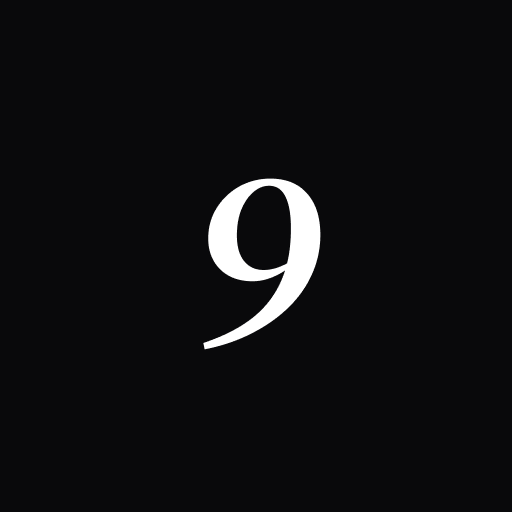
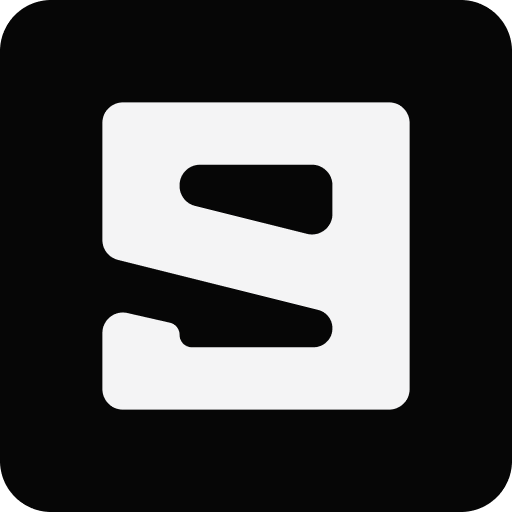
feat: branding update

diff --git a/src/components/icons.tsx b/src/components/icons.tsx
@@ -3,17 +3,15 @@ type IconProps = React.HTMLAttributes<SVGElement>
 export const Icons = {
 	logo: (props: IconProps) => (
 		<svg
-			{...props}
-			viewBox="0 0 122 175"
+			width="24"
+			height="24"
+			viewBox="0 0 120 120"
 			fill="none"
 			xmlns="http://www.w3.org/2000/svg"
+			{...props}
 		>
 			<path
-				d="M8.32 134.176L7.68 130.976C18.944 127.221 27.904 122.4 34.56 116.512C41.216 110.539 45.8667 103.285 48.512 94.752C45.952 96.4587 43.3067 97.7813 40.576 98.72C37.8453 99.6587 35.072 100.128 32.256 100.128C25.6 100.128 20.224 98.1653 16.128 94.24C12.1173 90.2293 10.112 85.0667 10.112 78.752C10.112 73.12 11.52 68.0427 14.336 63.52C17.152 58.9973 20.9067 55.4133 25.6 52.768C30.3787 50.1227 35.584 48.8 41.216 48.8C49.0667 48.8 55.168 51.2747 59.52 56.224C63.9573 61.1733 66.176 68.0853 66.176 76.96C66.176 83.872 64.768 90.4427 61.952 96.672C59.2213 102.816 55.2533 108.405 50.048 113.44C44.928 118.389 38.8267 122.656 31.744 126.24C24.7467 129.824 16.9387 132.469 8.32 134.176ZM24.448 77.216C24.448 82.7627 25.6427 87.0293 28.032 90.016C30.4213 93.0027 33.7067 94.496 37.888 94.496C41.5573 94.496 45.44 93.3867 49.536 91.168C50.816 85.9627 51.456 80.16 51.456 73.76C51.456 66.848 50.56 61.5573 48.768 57.888C46.976 54.2187 44.2453 52.384 40.576 52.384C37.76 52.384 35.1147 53.4507 32.64 55.584C30.1653 57.7173 28.16 60.6613 26.624 64.416C25.1733 68.0853 24.448 72.352 24.448 77.216Z"
-				fill="currentColor"
-			/>
-			<path
-				d="M76.704 110.896C75.296 110.896 74.08 110.491 73.056 109.68C72.032 108.827 71.52 107.525 71.52 105.776C71.52 104.795 71.6267 103.707 71.84 102.512C72.0533 101.317 72.288 100.144 72.544 98.992L75.296 86.768C75.68 85.0187 75.0613 83.824 73.44 83.184L72.352 82.736L72.48 81.584L84 78.256L84.768 78.896L80.352 98.096C80.096 99.1627 79.8827 100.123 79.712 100.976C79.5413 101.829 79.456 102.619 79.456 103.344C79.456 104.283 79.6693 104.965 80.096 105.392C80.5227 105.776 81.0773 105.968 81.76 105.968C82.784 105.968 83.8933 105.627 85.088 104.944C86.3253 104.219 87.7973 103.088 89.504 101.552L89.568 101.232L91.744 90.928C92.0853 89.1787 92.4267 87.4507 92.768 85.744C93.1093 83.9947 93.4293 82.2453 93.728 80.496L101.216 78.256L102.048 78.896L97.056 101.744C96.928 102.469 96.8 103.131 96.672 103.728C96.5867 104.325 96.544 104.816 96.544 105.2C96.544 105.627 96.672 105.968 96.928 106.224C97.184 106.437 97.4613 106.544 97.76 106.544C98.3573 106.544 98.9547 106.331 99.552 105.904C100.192 105.435 100.981 104.752 101.92 103.856L102.88 104.816C101.813 106.309 100.469 107.696 98.848 108.976C97.2693 110.256 95.456 110.896 93.408 110.896C92.1707 110.896 91.104 110.469 90.208 109.616C89.3547 108.763 88.928 107.525 88.928 105.904C88.928 105.264 88.9707 104.581 89.056 103.856C86.8373 106.075 84.6827 107.803 82.592 109.04C80.544 110.277 78.5813 110.896 76.704 110.896ZM116.695 74.544C115.5 74.544 114.476 74.16 113.623 73.392C112.769 72.624 112.343 71.5787 112.343 70.256C112.343 68.848 112.855 67.6747 113.879 66.736C114.903 65.7973 116.055 65.328 117.335 65.328C118.572 65.328 119.596 65.7333 120.407 66.544C121.217 67.312 121.623 68.3147 121.623 69.552C121.623 70.9173 121.111 72.0907 120.087 73.072C119.105 74.0533 117.975 74.544 116.695 74.544ZM110.807 110.896C109.527 110.896 108.46 110.576 107.607 109.936C106.796 109.253 106.391 108.272 106.391 106.992C106.391 106.267 106.476 105.392 106.647 104.368C106.817 103.344 107.009 102.299 107.223 101.232L110.231 86.768C110.615 84.976 109.953 83.76 108.247 83.12L107.351 82.736L107.479 81.584L118.999 78.256L119.639 78.896L114.775 101.744C114.604 102.469 114.476 103.109 114.391 103.664C114.305 104.176 114.263 104.667 114.263 105.136C114.263 106.075 114.689 106.544 115.543 106.544C116.567 106.544 117.911 105.733 119.575 104.112L120.407 104.944C119.34 106.523 117.996 107.909 116.375 109.104C114.796 110.299 112.94 110.896 110.807 110.896Z"
+				d="M8 120C3.58172 120 0 116.418 0 112V90.0813C0 84.9469 4.76798 81.1417 9.77448 82.2806L26.3605 86.0535C28.5739 86.557 30.1444 88.5249 30.1444 90.7948V90.7948C30.1444 93.4802 32.3213 95.6572 35.0067 95.6572H82.4434C86.537 95.6572 89.8556 92.3386 89.8556 88.2449V88.2449C89.8556 84.8434 87.5405 81.8785 84.2406 81.0538L6.06027 61.5146C2.49866 60.6245 0 57.4245 0 53.7533V8C0 3.58172 3.58172 0 8 0H112C116.418 0 120 3.58172 120 8V112C120 116.418 116.418 120 112 120H8ZM30.1444 32.6667C30.1444 36.3383 32.6436 39.5385 36.2057 40.4283L79.917 51.3462C84.9658 52.6072 89.8556 48.7885 89.8556 43.5846V32.3429C89.8556 27.9246 86.2739 24.3429 81.8556 24.3429H38.1444C33.7261 24.3429 30.1444 27.9246 30.1444 32.3429V32.6667Z"
 				fill="currentColor"
 			/>
 		</svg>

diff --git a/src/components/mobile-nav.tsx b/src/components/mobile-nav.tsx
@@ -30,7 +30,7 @@ export function MobileNav() {
 				<DrawerTrigger
 					render={(props) => (
 						<Button
-							className="mr-2 md:hidden"
+							className="md:hidden"
 							variant="ghost"
 							size="icon"
 							{...props}
@@ -72,7 +72,7 @@ export function MobileNav() {
 				</DrawerPortal>
 			</Drawer>
 			<Link href="/" className="flex items-center md:hidden">
-				<Icons.logo className="h-8" />
+				<Icons.logo className="h-4" />
 			</Link>
 		</div>
 	)

diff --git a/src/configs/site.ts b/src/configs/site.ts
@@ -1,7 +1,7 @@
 export const siteConfig = {
 	name: "9ui",
 	url: "https://9ui.dev",
-	ogImage: "https://9ui.dev/og.jpg?v=2",
+	ogImage: "https://9ui.dev/og.jpg?v=3",
 	description:
 		"Beautiful, customizable components built with Base UI and Tailwind CSS.",
 	links: {
@@ -12,4 +12,4 @@ export const siteConfig = {
 
 export type SiteConfig = typeof siteConfig
 
-export const META_THEME_COLOR = "#09090b"
+export const META_THEME_COLOR = "#060606"

diff --git a/src/components/main-nav.tsx b/src/components/main-nav.tsx
@@ -14,7 +14,7 @@ export function MainNav() {
 	return (
 		<div className="mr-4 hidden md:flex">
 			<Link href="/" className="mr-6 flex items-center">
-				<Icons.logo className="h-8" />
+				<Icons.logo className="h-4" />
 			</Link>
 			<nav className="flex items-center gap-6 text-sm">
 				<Link
